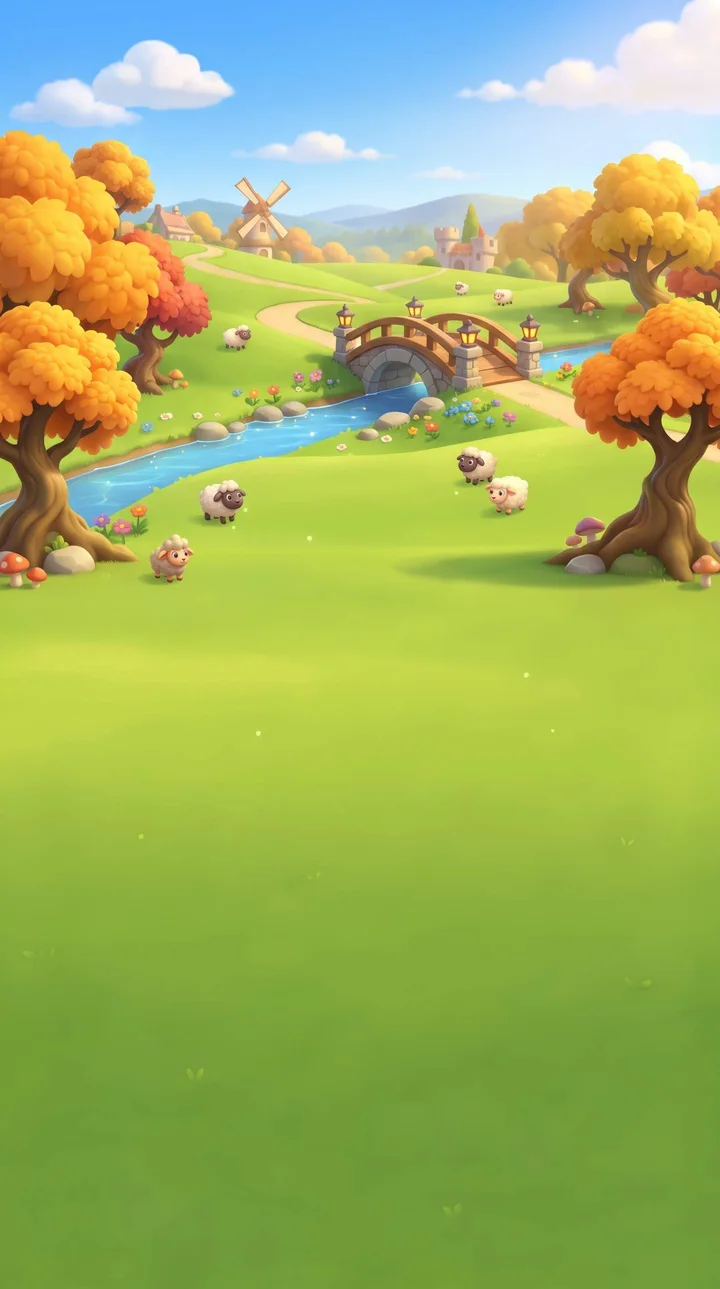
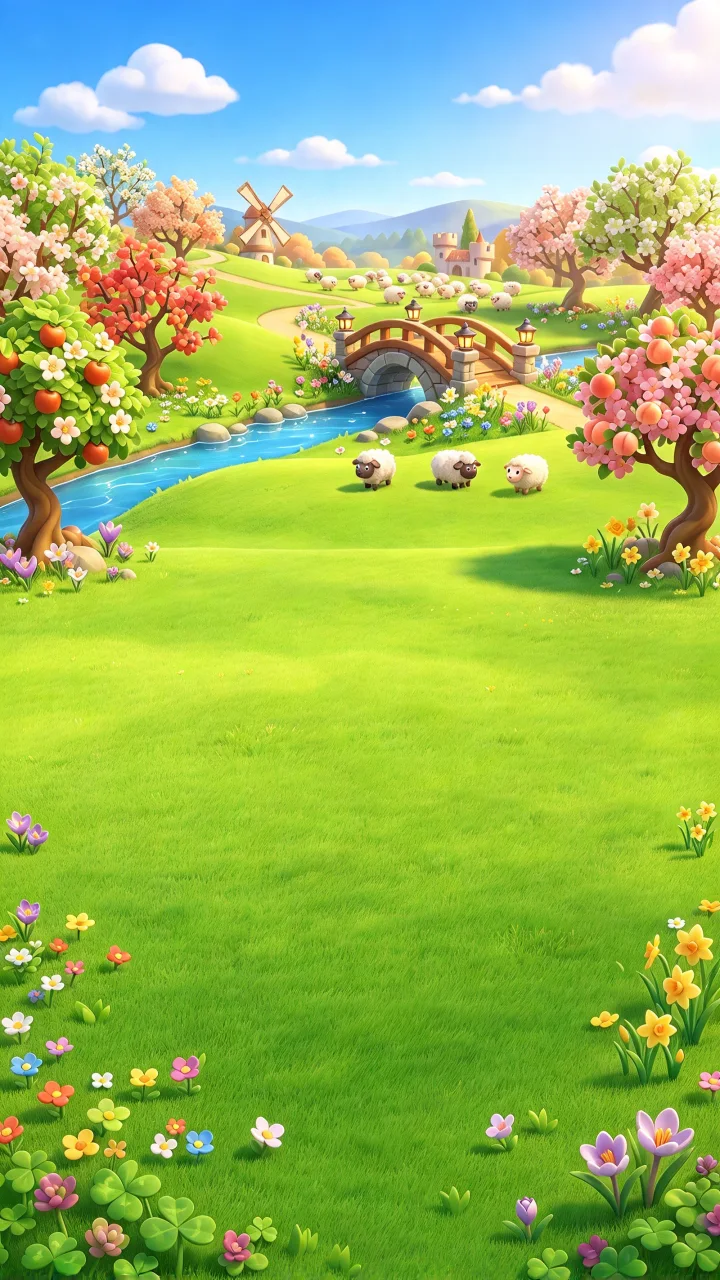
Beta Yapi: yeni sahil ve cayir fonlari (AI yazisi silindi); kaide kucultuldu; onbellek v129
Claude-Session: https://claude.ai/code/session_017YyKZuXSwqEETF9LpRu1xc

diff --git a/beta/sw.js b/beta/sw.js
@@ -3,7 +3,7 @@
 // - Internet yokken: saklanan kopya kullanilir, oyun cevrimdisi acilir.
 // - Gorseller, 3D modeller, videolar: once saklanan kopya, arka planda guncellenir.
 // - Oyuncu kaydina (localStorage / IndexedDB) asla dokunmaz.
-const C='blokpop-beta-v128';
+const C='blokpop-beta-v129';
 // @@ASSETS-START (tools/gen-sw-manifest.js ile otomatik uretilir, elle duzenleme)
 const CORE=["./","./index.html","./manifest.webmanifest","./icon-192.png","./icon-512.png","./icon-maskable-512.png","./runpofi.js","./items3d.js","./sfx.js","./avatars.js","./live3d.js","./three.module.min.js","./GLTFLoader.js","./SkeletonUtils.js","./BufferGeometryUtils.js"];
 const EXTRA=["./LICENSES.txt","./bg/w01.webp","./bg/w02.webp","./bg/w03.webp","./bg/w04.webp","./bg/w05.webp","./bg/w06.webp","./bg/w07.webp","./bg/w08.webp","./bg/w09.webp","./bg/w10.webp","./bg/w11.webp","./bg/w12.webp","./bg/w13.webp","./bg/w14.webp","./bg/w15.webp","./bg/w16.webp","./bg/w17.webp","./bg/w18.webp","./bg/w19.webp","./bg/w20.webp","./buz/index.html","./buz/izgara.js","./buz/motor.js","./buz/oyun3d.js","./buz/resim/liste.json","./buz/resim/r001.webp","./buz/resim/r002.webp","./buz/resim/r003.webp","./buz/resim/r004.webp","./buz/resim/r005.webp","./buz/resim/r006.webp","./buz/resim/r007.webp","./buz/resim/r008.webp","./buz/resim/r009.webp","./buz/resim/r010.webp","./buz/resim/r011.webp","./buz/resim/r012.webp","./buz/resim/r013.webp","./buz/resim/r014.webp","./buz/resim/r015.webp","./buz/resim/r016.webp","./buz/resim/r017.webp","./buz/resim/r018.webp","./buz/resim/r019.webp","./buz/resim/r020.webp","./buz/resim/r021.webp","./buz/resim/r022.webp","./buz/resim/r023.webp","./buz/resim/r024.webp","./buz/resim/r025.webp","./buz/resim/r026.webp","./buz/resim/r027.webp","./buz/resim/r028.webp","./buz/resim/r029.webp","./buz/resim/r030.webp","./buz/resim/r031.webp","./buz/resim/r032.webp","./buz/resim/r033.webp","./buz/resim/r034.webp","./buz/resim/r035.webp","./buz/resim/r036.webp","./buz/resim/r037.webp","./buz/resim/r038.webp","./buz/resim/r039.webp","./buz/resim/r040.webp","./buz/resim/r041.webp","./buz/resim/r042.webp","./buz/resim/r043.webp","./buz/resim/r044.webp","./buz/resim/r045.webp","./buz/resim/r046.webp","./buz/resim/r047.webp","./buz/resim/r048.webp","./buz/resim/r049.webp","./buz/resim/r050.webp","./buz/resim/r051.webp","./buz/resim/r052.webp","./buz/resim/r053.webp","./buz/resim/r054.webp","./buz/resim/r055.webp","./buz/resim/r056.webp","./buz/resim/r057.webp","./buz/resim/r058.webp","./buz/resim/r059.webp","./buz/resim/r060.webp","./buz/resim/r061.webp","./buz/resim/r062.webp","./buz/resim/r063.webp","./buz/resim/r064.webp","./buz/resim/r065.webp","./buz/resim/r066.webp","./buz/resim/r067.webp","./buz/resim/r068.webp","./buz/resim/r069.webp","./buz/resim/r070.webp","./buz/resim/r071.webp","./buz/resim/r072.webp","./buz/resim/r073.webp","./buz/resim/r074.webp","./buz/resim/r075.webp","./buz/resim/r076.webp","./buz/resim/r077.webp","./buz/resim/r078.webp","./buz/resim/r079.webp","./buz/resim/r080.webp","./buz/resim/r081.webp","./buz/resim/r082.webp","./buz/resim/r083.webp","./buz/resim/r084.webp","./buz/resim/r085.webp","./buz/resim/r086.webp","./buz/resim/r087.webp","./buz/resim/r088.webp","./buz/resim/r089.webp","./buz/resim/r090.webp","./buz/resim/r091.webp","./buz/resim/r092.webp","./buz/resim/r093.webp","./buz/resim/r094.webp","./buz/resim/r095.webp","./buz/resim/r096.webp","./buz/resim/r097.webp","./buz/resim/r098.webp","./buz/resim/r099.webp","./buz/resim/r100.webp","./buz/resim/r101.webp","./buz/resim/r102.webp","./buz/resim/r103.webp","./buz/resim/r104.webp","./buz/resim/r105.webp","./buz/resim/r106.webp","./buz/resim/r107.webp","./cannon.min.js","./char_astronot.js","./char_ejderha.js","./char_super.js","./evo.jpg","./evo.mp4","./kamyon/index.html","./kamyon/kamyon.glb","./kamyon/motor.js","./kamyon/oyun.js","./live_astronot.glb","./live_ejderha.glb","./live_pofi.glb","./live_super.glb","./pofi_dance.webm","./pofi_dance_a.webm","./pofi_knock.webm","./pofi_knock_a.webm","./pofi_spray.webm","./pofi_spray_a.webm","./splash.mp4","./splash_a.webm","./yapi/doku/altin.webp","./yapi/doku/bomba.webp","./yapi/doku/buz.webp","./yapi/doku/cam.webp","./yapi/doku/celik.webp","./yapi/doku/fici_kapak.webp","./yapi/doku/fici_yan.webp","./yapi/doku/hediye.webp","./yapi/doku/jole.webp","./yapi/doku/plat/ahsap_ust.webp","./yapi/doku/plat/ahsap_yan.webp","./yapi/doku/plat/buz_ust.webp","./yapi/doku/plat/buz_yan.webp","./yapi/doku/plat/harabe_direk.webp","./yapi/doku/plat/harabe_ust.webp","./yapi/doku/plat/harabe_yan.webp","./yapi/doku/plat/mercan_ust.webp","./yapi/doku/plat/mercan_yan.webp","./yapi/doku/plat/neon_ust.webp","./yapi/doku/plat/neon_yan.webp","./yapi/doku/plat/seker_ust.webp","./yapi/doku/plat/seker_yan.webp","./yapi/doku/plat/tas_ust.webp","./yapi/doku/plat/tas_yan.webp","./yapi/doku/recel_etiket.webp","./yapi/doku/sandik.webp","./yapi/doku/tugla.webp","./yapi/doku/yildiz.webp","./yapi/fon/cayir1.webp","./yapi/fon/cayir2.webp","./yapi/fon/cayir3.webp","./yapi/fon/cayir4.webp","./yapi/fon/col.webp","./yapi/fon/deniz.webp","./yapi/fon/harabe.webp","./yapi/fon/kar1.webp","./yapi/fon/kar2.webp","./yapi/fon/kar3.webp","./yapi/fon/orman.webp","./yapi/fon/sahil1.webp","./yapi/fon/sahil2.webp","./yapi/fon/sahil3.webp","./yapi/fon/seker.webp","./yapi/fon/uzay.webp","./yapi/index.html","./yapi/kup_yuz.webp","./yapi/model/bal_kabagi.glb","./yapi/model/buz_silindir.glb","./yapi/model/fici.glb","./yapi/model/kup.glb","./yapi/model/kup_ahsap.glb","./yapi/model/kup_ahsap_metal.glb","./yapi/model/kup_altin.glb","./yapi/model/kup_kirmizi.glb","./yapi/model/kup_metal.glb","./yapi/model/kup_tas.glb","./yapi/model/piramit_tas.glb","./yapi/model/platform_ahsap.glb","./yapi/model/platform_sirk.glb","./yapi/model/platform_tas.glb","./yapi/model/sandik.glb","./yapi/model/top.glb","./yapi/model/top_arabasi.glb","./yapi/model/varil.glb","./yapi/oyun.js"];

diff --git a/beta/yapi/index.html b/beta/yapi/index.html
@@ -62,6 +62,6 @@ html,body{margin:0;height:100%;overflow:hidden;background:#7cc6ff;font-family:va
 <div id="praise"></div>
 <div class="modal" id="modal"><div class="card" id="card"></div></div>
 <div id="load">Yükleniyor…</div>
-<script type="module" src="oyun.js?v=17"></script>
+<script type="module" src="oyun.js?v=18"></script>
 </body>
 </html>
